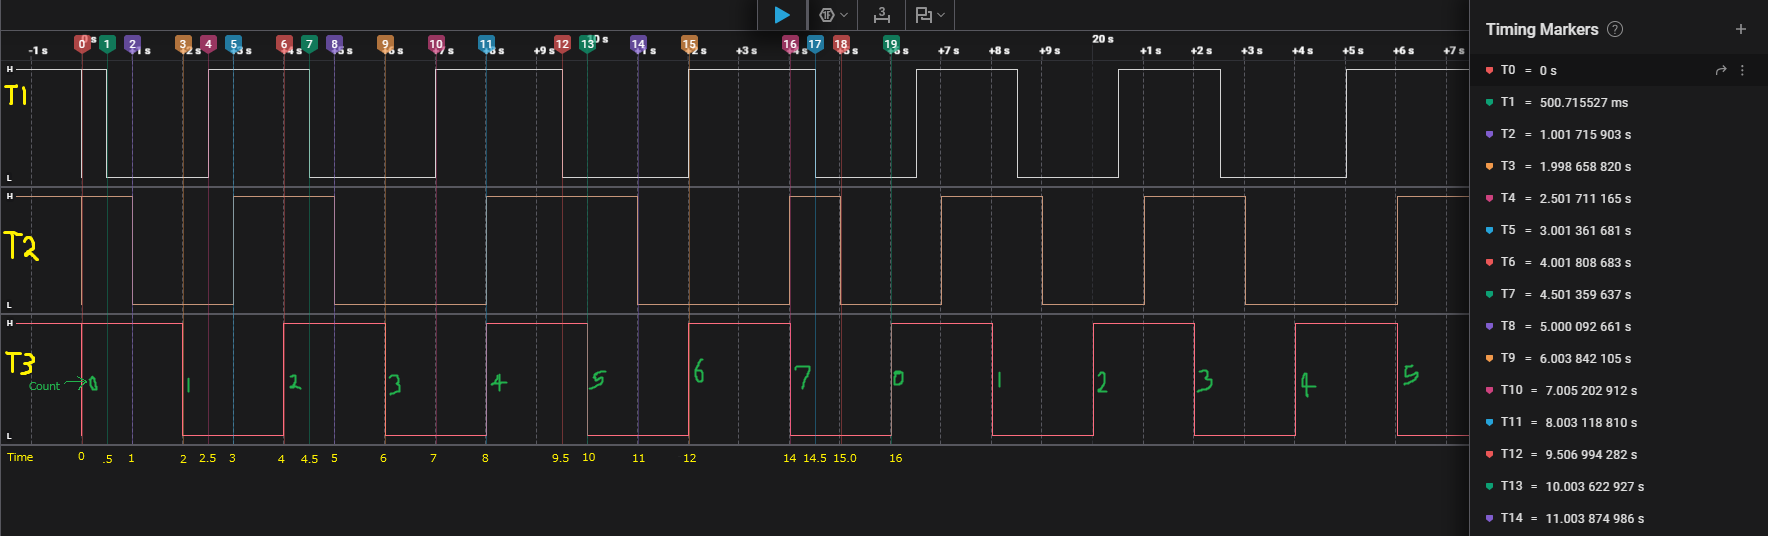
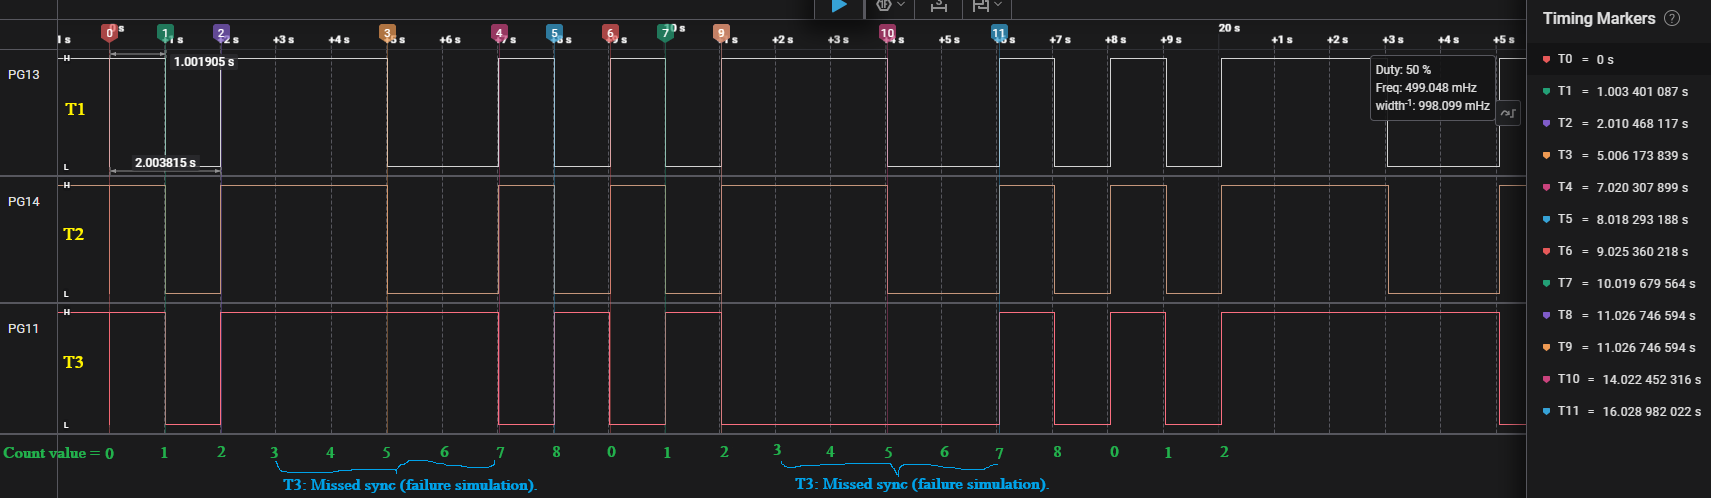
update readme

diff --git a/EventGroups/Readme.md b/EventGroups/Readme.md
@@ -1,5 +1,7 @@
 # Event Groups
 
+[![Youtube Video](https://img.youtube.com/vi/BsUXqmotvlE/0.jpg)](https://www.youtube.com/watch?v=BsUXqmotvlE) 
+
 * An event group is just a collection of bits.
 * Tasks can wait on one or more bits to be set.
 * Tasks can wait for any one bit (OR condition) or for all bits together (AND condition).
@@ -144,17 +146,17 @@ int main(void)
 
 | `Task03` Count | Watchdog Log Message                   | Explanation                                                   |
 | -------------- | -------------------------------------- | ------------------------------------------------------------- |
-| 0              | All tasks are running                  | Watchdog starts → all three tasks set bits within **1 s**.        |
-| 1              | All tasks are running                  | Watchdog checks again after **2 s**, all tasks still alive.       |
+| 0              | All tasks are running                  | Watchdog starts → all three tasks set bits first.        |
+| 1              | All tasks are running                  | Watchdog checks again, after **1s** all tasks set there bits, so All tasks run.       |
 | 2              | All tasks are running                  | Same as above.                                                |
 | 3              | All tasks are running                  | Same as above.                                                |
-| 4              | —                                      | `Task03` skips setting its bit. Watchdog is waiting.            |
+| 4              | —                                      | in `Task03` count = 4, skips setting its bit. Watchdog is waiting.   |
 | 5              | Task03 is not running. Task03 failure. | Timeout (**2 s)** expired, bit from `Task03` missing.               |
 | 6              | —                                      | `Task03` still not setting its bit. Watchdog waiting.           |
-| 7              | Task03 is not running. Task03 failure. | Watchdog times out again, `Task03` still missing.               |
-| 8              | —                                      | Same as above, watchdog waiting.                              |
+| 7              | Task03 is not running. Task03 failure. | Watchdog Timeout **(2 s)** again, `Task03` still missing.               |
+| 8              | —                                      | `Task03` still not setting its bit. Watchdog waiting.                              |
 | 9              | Task03 is not running. Task03 failure. | Timeout expired again.                                        |
-| 10             | All tasks are running                  | `Task03` resumes setting its bit. Watchdog sees all bits again. |
+| 10             | All tasks are running                  | count =  `Task03` resumes setting its bit. Watchdog sees all bits again. |
 | 11             | All tasks are running                  | Normal operation continues.                                   |
 
 🔹 Key Takeaways
@@ -178,14 +180,14 @@ void Task01(void* pvParameters)
 {
 	for(;;)
 	{
-		HAL_GPIO_TogglePin(GPIOG, GPIO_PIN_13);
-
 		EventBits_t uxReturn = xEventGroupSync(
 				EventGroup_Handle,  // The event group
 				task01_bit, 		// The bits being set.
 				all_sync_bits,		// Wait for all bits
 				pdMS_TO_TICKS(2000) // Wait for 2000 ms
 		);
+		
+		HAL_GPIO_TogglePin(GPIOG, GPIO_PIN_13);
 
 		if((uxReturn & all_sync_bits) == all_sync_bits){
 			// All three tasks reached the synchronisation point before the call
@@ -196,7 +198,7 @@ void Task01(void* pvParameters)
 			HAL_UART_Transmit(&huart1, (uint8_t*) "Task01: Synchronization timeout.\n", 33, HAL_MAX_DELAY);
 		}
 
-		vTaskDelay(pdMS_TO_TICKS(500));
+		vTaskDelay(pdMS_TO_TICKS(1000));
 
 	}
 }
@@ -205,8 +207,6 @@ void Task02(void* pvParameters)
 {
 	for(;;)
 	{
-		HAL_GPIO_TogglePin(GPIOG, GPIO_PIN_14);
-
 		EventBits_t uxReturn = xEventGroupSync(
 				EventGroup_Handle,  // The event group
 				task02_bit, 		// The bits being set.
@@ -214,6 +214,7 @@ void Task02(void* pvParameters)
 				pdMS_TO_TICKS(2000) // Wait for 2000 ms
 		);
 
+		HAL_GPIO_TogglePin(GPIOG, GPIO_PIN_14);
 
 		if((uxReturn & all_sync_bits) == all_sync_bits){
 			// All three tasks reached the synchronisation point before the call
@@ -233,8 +234,6 @@ void Task03(void* pvParameters)
 	static int count = 0;
 	for(;;)
 	{
-		HAL_GPIO_TogglePin(GPIOG, GPIO_PIN_11);
-
 		 if (count >= 3 && count <= 6) {
 			 // Simulate a failure (not calling sync)
 			 HAL_UART_Transmit(&huart1, (uint8_t *)"Task03: Missed sync (failure simulation).\n", 43, HAL_MAX_DELAY);
@@ -248,6 +247,7 @@ void Task03(void* pvParameters)
 					pdMS_TO_TICKS(2000) // Wait for 2000 ms
 			);
 
+			HAL_GPIO_TogglePin(GPIOG, GPIO_PIN_11);
 
 			if((uxReturn & all_sync_bits) == all_sync_bits){
 				// All three tasks reached the synchronisation point before the call
@@ -262,7 +262,7 @@ void Task03(void* pvParameters)
 		 count++;
 		 if (count > 8) count = 0;
 
-		 vTaskDelay(pdMS_TO_TICKS(2000));
+		 vTaskDelay(pdMS_TO_TICKS(1000));
 	}
 }
 ```
@@ -271,19 +271,18 @@ void Task03(void* pvParameters)
 
 | Time (s) | Task03 Count | GPIO Toggles (from chart)             | UART Message(s)                                                                                                         | Explanation                                                                                                              |
 | -------- | ------------ | ------------------------------------- | ----------------------------------------------------------------------------------------------------------------------- | ------------------------------------------------------------------------------------------------------------------------ |
-| 0–2      | 0            | T1 ↑, T2 ↑, T3 ↑                      | `Task02: All tasks synchronized.`<br>`Task03: All tasks synchronized.`                                                  | At the very start, all three tasks reach the sync barrier. Event group releases them together → GPIO toggles align.      |
-| 2–4      | 1            | T1 ↑, T2 ↑, T3 ↑                      | `Task03: All tasks synchronized.`                                                                                       | Again, all tasks sync successfully. GPIOs toggle close together.                                                         |
-| 4–6      | 2            | T1 ↑, T2 ↑, T3 ↑                      | `Task03: All tasks synchronized.`                                                                                       | Normal sync cycle. All three tasks participate.                                                                          |
-| 6–8      | 3            | T1 ↑, T2 ↑, **T3 ↑ but skipped sync** | `Task03: Missed sync (failure simulation).`<br>`Task01: Synchronization timeout.`<br>`Task02: Synchronization timeout.` | Task03 toggles its pin but doesn’t call `xEventGroupSync()`. T1 & T2 block, waiting for all bits, then timeout after 2s. |
-| 8–10     | 4            | T1 ↑, T2 ↑, T3 ↑ (no sync)            | `Task03: Missed sync`<br>`Task01/Task02: Timeout`                                                                       | Same as count=3. Sync barrier fails because Task03 didn’t participate.                                                   |
-| 10–12    | 5            | T1 ↑, T2 ↑, T3 ↑ (no sync)            | `Task03: Missed sync`<br>`Task01/Task02: Timeout`                                                                       | Failure continues.                                                                                                       |
-| 12–14    | 6            | T1 ↑, T2 ↑, T3 ↑ (no sync)            | `Task03: Missed sync`<br>`Task01/Task02: Timeout`                                                                       | Still failing.                                                                                                           |
-| 14–16    | 7            | T1 ↑, T2 ↑, T3 ↑                      | `Task03: All tasks synchronized.`                                                                                       | Task03 rejoins the sync. Now all tasks reach barrier again → GPIOs toggle together.                                      |
-| 16–18    | 0            | T1 ↑, T2 ↑, T3 ↑                      | `Task03: All tasks synchronized.`                                                                                       | Counter reset. Back to normal sync.                                                                                      |
-| 18–20    | 1            | T1 ↑, T2 ↑, T3 ↑                      | `Task03: All tasks synchronized.`                                                                                       | Stable synchronization again.                                                                                            |
-| 20–22    | 2            | T1 ↑, T2 ↑, T3 ↑                      | `Task03: All tasks synchronized.`                                                                                       | Still stable.                                                                                                            |
-| 22–26    | 3–6          | T1 ↑, T2 ↑, T3 ↑ (no sync)            | `Task03: Missed sync` + T1/T2 timeouts                                                                                  | The failure window repeats exactly like before.                                                                          |
+| 0 | 0 | Task03: All tasks synchronized. |  At the very start, all three tasks reach the sync barrier. Event group releases them together → GPIO toggles align. 
+| 1 | 1 | Task03: All tasks synchronized. |  Again, all tasks sync successfully. GPIOs toggle together. 
+| 2 | 2 | Task03: All tasks synchronized. |  Again, all tasks sync successfully. GPIOs toggle together. 
+| 3 | 3 | Task03: Missed sync (failure simulation). |  Task03 doesn’t call `xEventGroupSync()`. T1 & T2 block, waiting for all bits.
+| 4 | 4 | Task03: Missed sync (failure simulation). |  Task03 doesn’t call `xEventGroupSync()`. T1 & T2 block, waiting for all bits.
+| 5 | 5 | Task03: Missed sync (failure simulation).<br>Task01: Synchronization timeout.  |  Task03 again doesn’t call `xEventGroupSync()` and T1 & T2 timeout after `2s`.
+| 6 | 6 | Task03: Missed sync (failure simulation).  |  Task03 again doesn’t call `xEventGroupSync()` and T1 & T2 again block.
+| 7 | 7 | Task03: All tasks synchronized.  |  Task03 call `xEventGroupSync()` Again, all tasks sync successfully.GPIOs toggle together. 
+| 8 | 8 | Task03: All tasks synchronized.  |  Task03 call `xEventGroupSync()` Again, all tasks sync successfully.GPIOs toggle together. 
 
+<br>
+<br>
 
 ### Example 03 Event Groups with External Interrupt (EXTI)
 

diff --git a/Readme.md b/Readme.md
@@ -30,6 +30,9 @@ uses it at a time.
 already holds it.
 
 ## [5. Event Groups](/EventGroups/)
+
+[![Youtube Video](https://img.youtube.com/vi/BsUXqmotvlE/0.jpg)](https://www.youtube.com/watch?v=BsUXqmotvlE) 
+
 * A collection of bits that tasks can `wait on`.
 * Tasks can wait for one or more bits to be set before continuing.
 * Useful for synchronization of multiple events.
